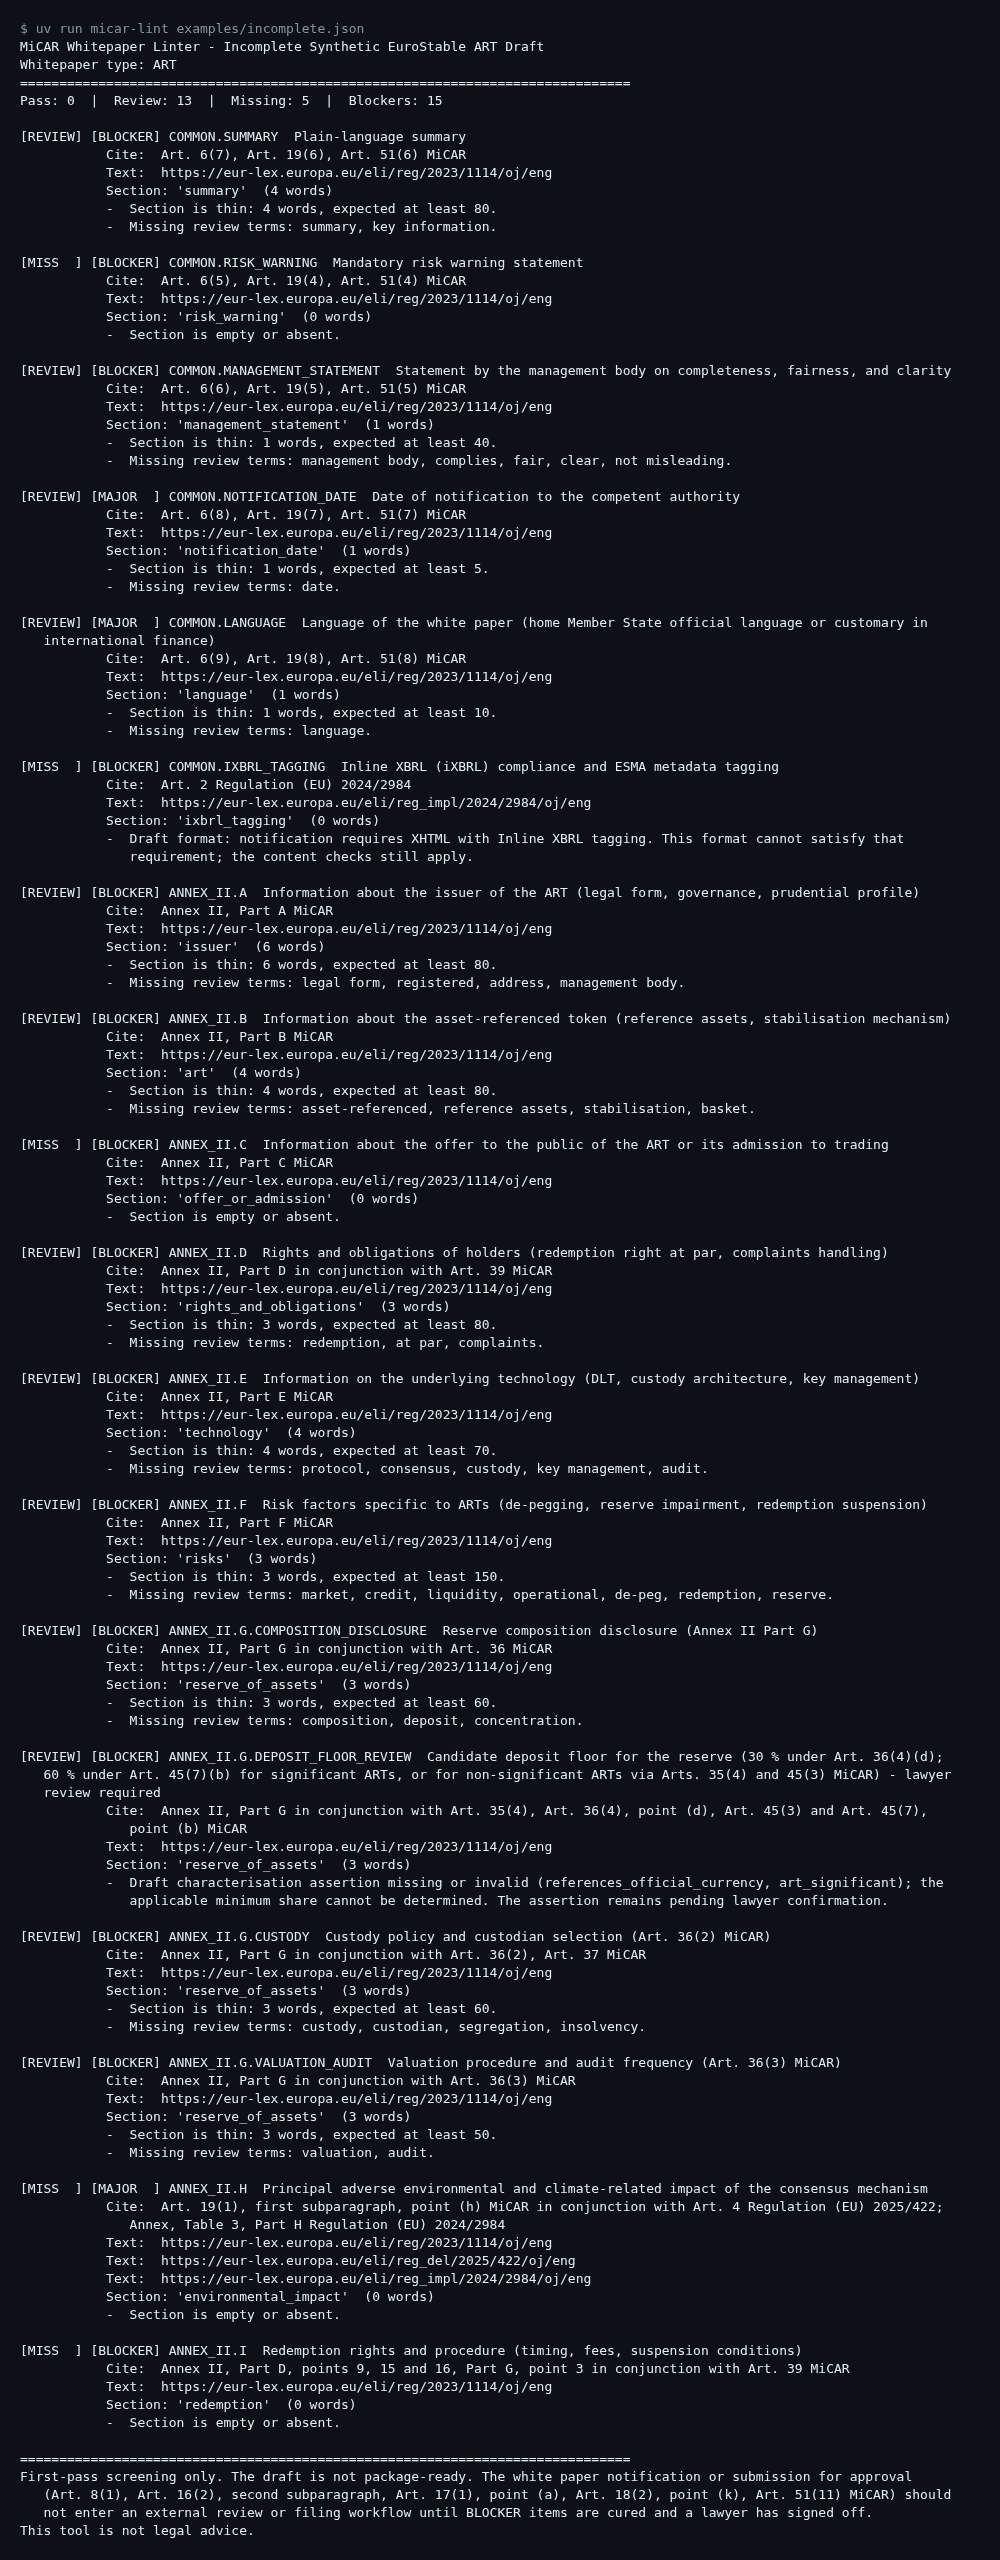
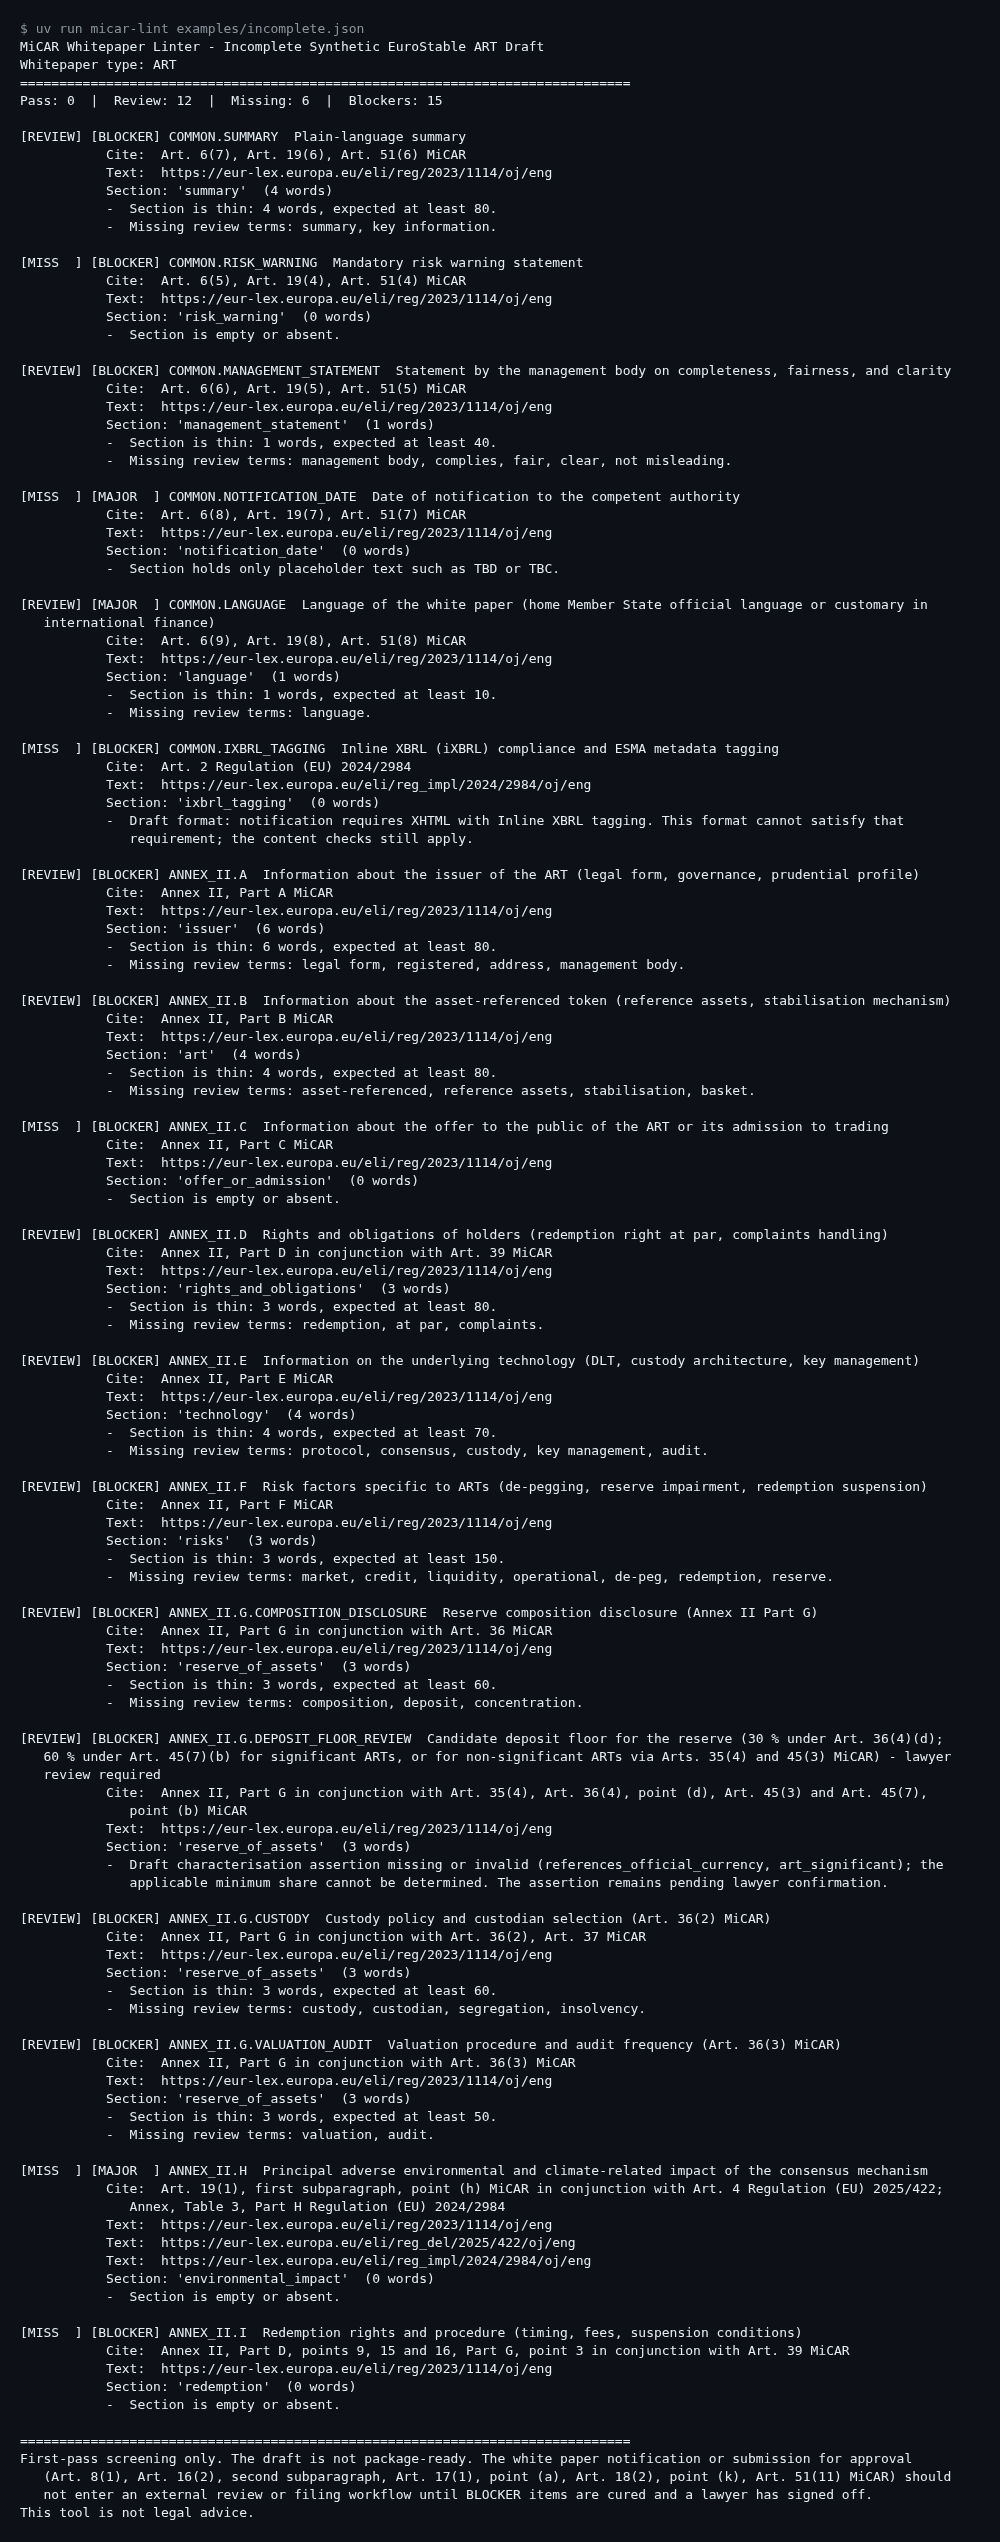
fix: report placeholder-only sections and numbered fields as missing
"TBD", "TBC", "[●]", "[•]", "to be confirmed" and "to be determined" were read as a one-word answer, so
a section or numbered field holding only a placeholder was a thin section under review instead of a
missing one.

src/micar_linter/placeholders.py recognises text that holds placeholders and nothing else but
punctuation, in any case. The linter reports such a section as missing with 0 words and says it holds
only placeholder text. A numbered field holding a placeholder is unanswered, contributes its
placeholder rather than its label, and does not produce the "marked not applicable" note.

examples/incomplete.json has the notification date "TBD.", which is now missing. The sample report,
the demo capture (docs/demo.txt and docs/demo.png, rendered with headless Chrome) and the README and
DETAILS output blocks are regenerated from the CLI output, and the playground wheel is rebuilt.

diff --git a/tests/test_placeholders.py b/tests/test_placeholders.py
@@ -1,0 +1,74 @@
+"""A placeholder is not an answer. "TBD", "TBC", "[●]", "to be confirmed" or "to be determined" as the
+whole content of a numbered field or a section reads as missing, not as a thin answer under review."""
+
+from pathlib import Path
+
+import pytest
+
+from micar_linter.linter import lint_whitepaper
+from micar_linter.numbered_fields import extract_numbered_fields
+from micar_linter.whitepaper import Whitepaper, WhitepaperType, load_whitepaper
+
+PLACEHOLDERS = ["TBD", "TBC", "[●]", "[•]", "to be confirmed", "To be determined.", "tbd."]
+
+
+def _numbered_draft(tmp_path: Path, risk_answer: str) -> Path:
+    """A numbered-field draft for an invented issuer whose Part I risk fields hold `risk_answer`."""
+    rows = "".join(
+        f"<tr><td>{number}</td><td>{label}</td><td>{content}</td></tr>"
+        for number, label, content in [
+            ("A.1", "Name", "Quillmoor Ledger S.A."),
+            ("D.1", "Crypto-asset project name", "Quillmoor shared ledger"),
+            ("H.1", "Distributed ledger technology", "A permissioned ledger run by five validating nodes."),
+            ("I.1", "Offer-related risks", risk_answer),
+            ("I.2", "Technology-related risks", risk_answer),
+        ]
+    )
+    path = tmp_path / "quillmoor.xhtml"
+    path.write_text(f"<html><body><table>{rows}</table></body></html>", encoding="utf-8")
+    return path
+
+
+@pytest.mark.parametrize("placeholder", PLACEHOLDERS)
+def test_a_numbered_field_holding_a_placeholder_is_unanswered(tmp_path: Path, placeholder: str):
+    path = _numbered_draft(tmp_path, placeholder)
+
+    fields = {field.field_id: field for field in extract_numbered_fields(path)}
+    assert fields["A.1"].answered
+    assert not fields["I.1"].answered
+    assert not fields["I.2"].answered
+
+    report = lint_whitepaper(load_whitepaper(path, WhitepaperType.OTHER))
+    risks = next(finding for finding in report.findings if finding.rule.rule_id == "ANNEX_I.I")
+    assert risks.status == "missing"
+    # A placeholder is not a statement that the part does not apply.
+    assert not any(warning.startswith("Part I:") for warning in report.warnings)
+
+
+@pytest.mark.parametrize("text", [*PLACEHOLDERS, "TBD\nTBC", "[TBD]"])
+def test_a_section_of_placeholders_is_missing(text: str):
+    whitepaper = Whitepaper(
+        title="Quillmoor draft", type=WhitepaperType.OTHER, sections={"notification_date": text}, metadata={}
+    )
+    report = lint_whitepaper(whitepaper)
+    finding = next(f for f in report.findings if f.rule.rule_id == "COMMON.NOTIFICATION_DATE")
+    assert (finding.status, finding.word_count) == ("missing", 0)
+
+
+@pytest.mark.parametrize(
+    "text",
+    [
+        "Date of notification: 2 March 2026.",
+        "Date of notification: TBD",
+        "N/A",
+        "The launch date is to be confirmed by the board in 2026.",
+    ],
+)
+def test_text_around_a_placeholder_is_not_a_placeholder(text: str):
+    whitepaper = Whitepaper(
+        title="Quillmoor draft", type=WhitepaperType.OTHER, sections={"notification_date": text}, metadata={}
+    )
+    finding = next(
+        f for f in lint_whitepaper(whitepaper).findings if f.rule.rule_id == "COMMON.NOTIFICATION_DATE"
+    )
+    assert finding.status != "missing"

diff --git a/src/micar_linter/numbered_fields.py b/src/micar_linter/numbered_fields.py
@@ -15,6 +15,7 @@ from pathlib import Path
 
 from lxml import etree
 
+from micar_linter.placeholders import is_placeholder
 from micar_linter.whitepaper import WhitepaperType
 
 # A layout counts as numbered once fields from this many distinct parts carry content.
@@ -124,8 +125,13 @@ class NumberedField:
         return self.field_id.split(".")[0]
 
     @property
+    def placeholder(self) -> bool:
+        """The content is a placeholder such as "TBD", "TBC", "[●]" or "to be confirmed"."""
+        return is_placeholder(self.content)
+
+    @property
     def answered(self) -> bool:
-        return not _UNANSWERED.match(self.content.strip())
+        return not (_UNANSWERED.match(self.content.strip()) or self.placeholder)
 
 
 def _clean(text: str | None) -> str:
@@ -223,8 +229,9 @@ def sections_from_numbered_fields(
     """Map numbered fields to section texts and extraction notes.
 
     An answered field contributes "label: answer". A field answered "N/A" contributes
-    "N/A" without its label, so a part of unanswered fields cannot satisfy a rule
-    through the wording of the template alone.
+    "N/A" and a placeholder field ("TBD", "[●]") its placeholder, both without the label,
+    so a part of unanswered fields cannot satisfy a rule through the wording of the
+    template alone, and a part of placeholders reads as missing.
     """
     parts = _PART_SECTIONS[whitepaper_type]
     summary = _SUMMARY_SECTIONS[whitepaper_type]
@@ -237,7 +244,9 @@ def sections_from_numbered_fields(
             continue
         if field.part in parts and field.answered and _LANGUAGE_LABEL.search(field.label):
             keys = (*keys, "language")
-        if not field.answered:
+        if field.placeholder:
+            line = field.content
+        elif not field.answered:
             line = "N/A"
         elif field.label:
             line = f"{field.label}: {field.content}"
@@ -264,7 +273,7 @@ def sections_from_numbered_fields(
         )
     for part in sorted({field.part for field in lettered}):
         in_part = [field for field in lettered if field.part == part]
-        if not any(field.answered for field in in_part):
+        if not any(field.answered or field.placeholder for field in in_part):
             notes.append(
                 f"Part {part}: all {len(in_part)} numbered fields are marked not applicable. "
                 "Confirm that the part does not apply."

diff --git a/src/micar_linter/linter.py b/src/micar_linter/linter.py
@@ -6,6 +6,7 @@ import re
 from dataclasses import dataclass, field
 
 from micar_linter.anchors import SourceAnchor, build_source_anchors
+from micar_linter.placeholders import is_placeholder
 from micar_linter.rules import RULESETS
 from micar_linter.rules.base import Finding, Rule, Severity
 from micar_linter.whitepaper import Whitepaper, WhitepaperType
@@ -64,8 +65,15 @@ class Linter:
         text = whitepaper.section(rule.section)
         word_count = _count_words(text)
 
-        if not text.strip():
-            msg = "Abschnitt ist leer oder fehlt." if is_de else "Section is empty or absent."
+        if not text.strip() or is_placeholder(text):
+            if not text.strip():
+                msg = "Abschnitt ist leer oder fehlt." if is_de else "Section is empty or absent."
+            else:
+                msg = (
+                    "Abschnitt enthält nur Platzhalter wie TBD oder TBC."
+                    if is_de
+                    else "Section holds only placeholder text such as TBD or TBC."
+                )
             return Finding(
                 rule=rule,
                 status="missing",

diff --git a/src/micar_linter/placeholders.py b/src/micar_linter/placeholders.py
@@ -1,0 +1,14 @@
+"""Placeholder text that a draft leaves where an answer is still to come."""
+
+from __future__ import annotations
+
+import re
+
+# "TBD", "TBC", "to be confirmed" and "to be determined" in any case, and the "[●]" or "[•]" blank of
+# legal drafts (the brackets are punctuation, so the bullet alone is the token).
+_PLACEHOLDER = re.compile(r"\b(?:tbd|tbc|to\s+be\s+(?:confirmed|determined))\b|[●•]", re.I)
+
+
+def is_placeholder(text: str) -> bool:
+    """True if the text holds a placeholder and nothing else but punctuation: "TBD.", "[●]", "TBC / TBD"."""
+    return bool(_PLACEHOLDER.search(text)) and not re.search(r"\w", _PLACEHOLDER.sub("", text))

diff --git a/CHANGELOG.md b/CHANGELOG.md
@@ -8,3 +8,4 @@
 - DOCX drafts: a body paragraph with a bold lead-in, such as "**Note:** purchasers bear market, liquidity and technology risks.", no longer opens a risks section. Before, any paragraph under 120 characters with one bold run counted as a heading, so a draft with no risk section could pass the ANNEX_I.I blocker. A paragraph is now a heading only if it has a Heading style or an outline level, or is a short label (at most 12 words, no sentence punctuation) that is entirely bold or in capitals. A Title-style paragraph names the white paper and opens no section.
 - PDF drafts: a short body line that mentions a section word, such as "risks", no longer opens that section. A line is now a heading only if it names a section, has at most 12 words (20 when numbered), does not end with sentence punctuation, and is either numbered ("1.", "5.2", "A.1", "I.", "Part I") with a capital after the number or written in title case or capitals. An unnumbered heading in sentence case, such as "Risk factors", is no longer recognised in a PDF.
 - DOCX and PDF drafts: heading text no longer counts as section body. A section that holds only its heading is reported missing with 0 words.
+- "TBD", "TBC", "[●]", "[•]", "to be confirmed" and "to be determined", in any case and with or without punctuation, are now reported missing when they are the whole content of a section or of a numbered field. Before, they counted as a one-word answer under review. A numbered field holding a placeholder is unanswered and does not produce the "marked not applicable" note. The notification date of `examples/incomplete.json` ("TBD.") is now missing, so the sample report, the demo capture and the README and DETAILS output blocks are regenerated. The playground wheel is rebuilt from the fixed source.

diff --git a/docs/TESTING.md b/docs/TESTING.md
@@ -46,4 +46,5 @@ uv run --extra dev ruff check src tests scripts
 - **Regime Rules**: Validated in `tests/test_rules.py` (verifies checks for Annex I, II, and III).
 - **ART Reserve Floor**: Validated in `tests/test_reserve_rules.py` across draft characterisation combinations, malformed values, percentage formats, misleading contexts and the invariant that the rule never returns `PASS`.
 - **Format Parsers**: Validated in `tests/test_markdown.py` and `tests/test_document.py` (DOCX, Markdown). `tests/test_heading_detection.py` builds DOCX files with python-docx and PDF files that pypdf parses, and checks that body text mentioning a section word opens no section and that heading text is not section body.
+- **Placeholders**: Validated in `tests/test_placeholders.py` ("TBD", "TBC", "[●]", "to be confirmed" as a whole section or numbered field read as missing).
 - **Reviewer Artifacts**: Validated in `tests/test_artifact_manifest.py`, `tests/test_remediation.py`, and CLI tests for manifest, remediation, audit-log, and write-failure behavior.

diff --git a/docs/DETAILS.md b/docs/DETAILS.md
@@ -125,7 +125,7 @@ Real output of `uv run micar-lint examples/incomplete.json` (a synthetic, delibe
 MiCAR Whitepaper Linter - Incomplete Synthetic EuroStable ART Draft
 Whitepaper type: ART
 ==============================================================================
-Pass: 0  |  Review: 13  |  Missing: 5  |  Blockers: 15
+Pass: 0  |  Review: 12  |  Missing: 6  |  Blockers: 15
 
 [REVIEW] [BLOCKER] COMMON.SUMMARY  Plain-language summary
            Cite:  Art. 6(7), Art. 19(6), Art. 51(6) MiCAR

diff --git a/README.md b/README.md
@@ -42,7 +42,7 @@ Real output of `uv run micar-lint examples/incomplete.json` (a synthetic, delibe
 MiCAR Whitepaper Linter - Incomplete Synthetic EuroStable ART Draft
 Whitepaper type: ART
 ==============================================================================
-Pass: 0  |  Review: 13  |  Missing: 5  |  Blockers: 15
+Pass: 0  |  Review: 12  |  Missing: 6  |  Blockers: 15
 
 [REVIEW] [BLOCKER] COMMON.SUMMARY  Plain-language summary
            Cite:  Art. 6(7), Art. 19(6), Art. 51(6) MiCAR
